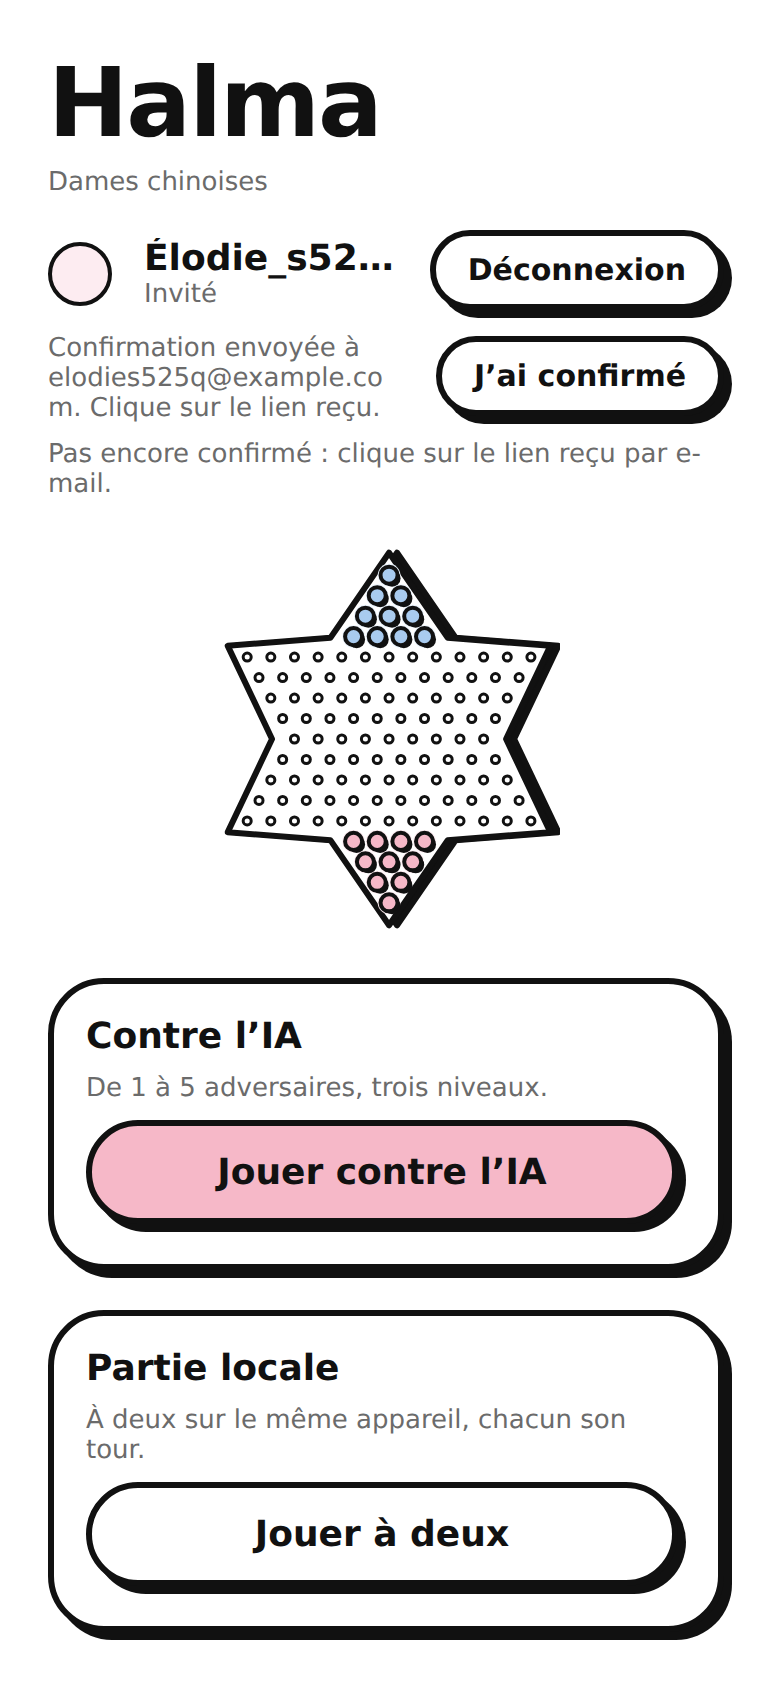
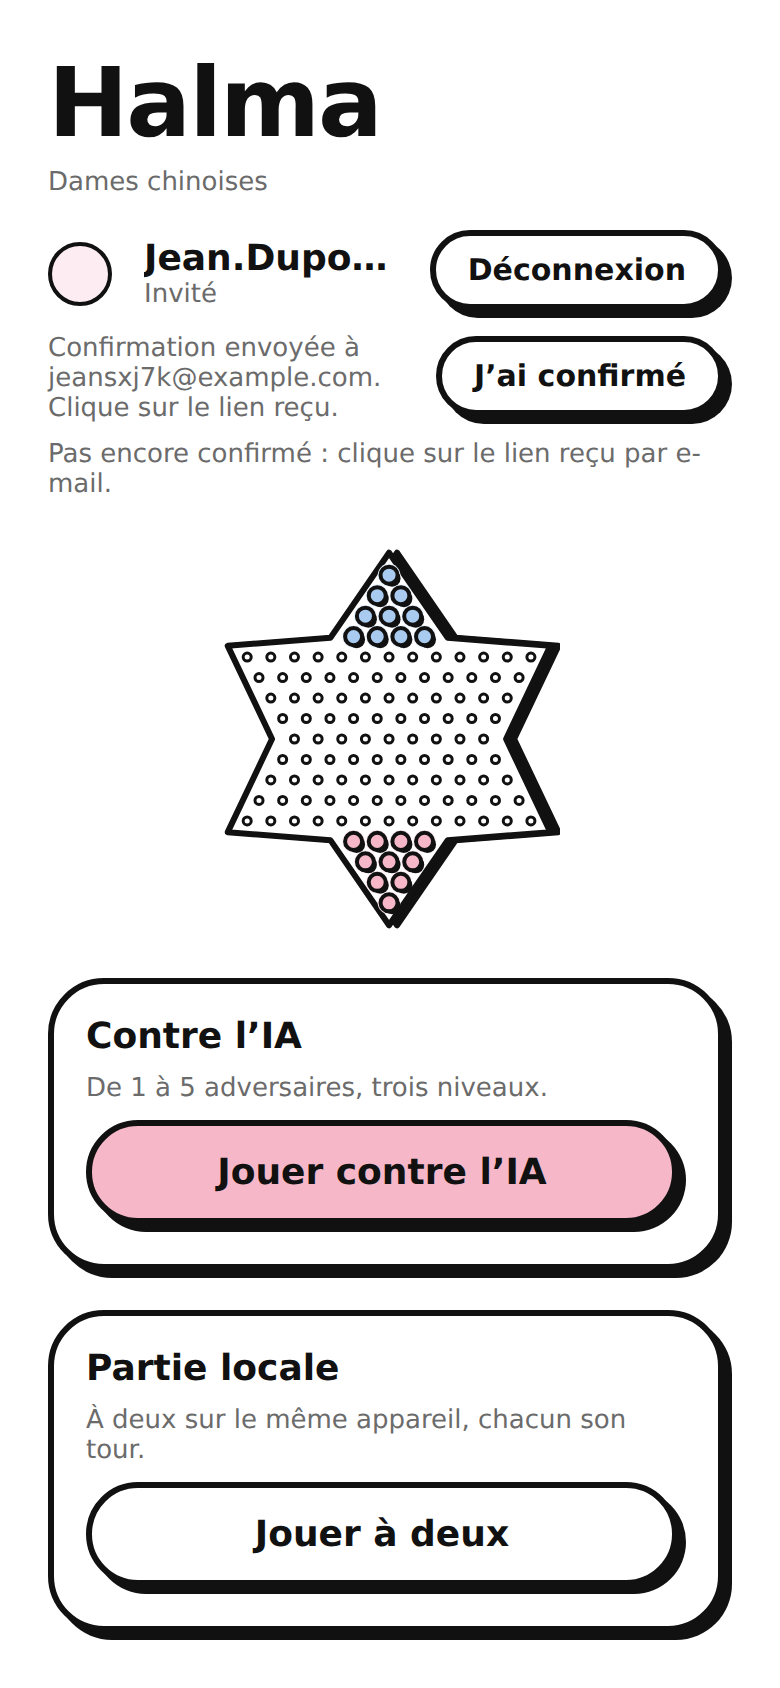
Pseudos: back to ASCII, allow dots
- Pseudos are 3-20 ASCII characters: letters without accents, digits,
  "_", "-" and "." (same rule in the app and in the database).
- Drop the ICU collation and NFC normalisation, no longer needed with an
  ASCII-only rule; lower() behaves the same under any locale.
- SQL checks: dots/underscores/hyphens accepted, accents, spaces, emoji
  and other punctuation refused, case still ignored; verified that
  removing "." from the pattern makes them fail.
- Forms clear a field's error as soon as it is edited.

Claude-Session: https://claude.ai/code/session_0191U8nMykJc5v9i35DUKtzB

Changed region(s): [[0.0615, 0.2156, 0.4923, 0.2464], [0.2769, 0.1232, 0.4923, 0.1848], [0.1846, 0.1232, 0.2462, 0.1848]]

diff --git a/src/auth/__tests__/auth-service.test.ts b/src/auth/__tests__/auth-service.test.ts
@@ -63,12 +63,6 @@ describe('signUpWithEmail', () => {
     });
   });
 
-  it('envoie le pseudo normalisé en NFC', async () => {
-    const { client, asSupabase } = fakeClient();
-    await signUpWithEmail(asSupabase, { ...fields, pseudo: 'Zoe\u0308' });
-    expect(client.rpc).toHaveBeenCalledWith('is_pseudo_available', { candidate: 'Zoë' });
-  });
-
   it('signale quand l’e-mail doit être confirmé (pas de session)', async () => {
     const { asSupabase } = fakeClient({ signUp: ok({ session: null, user: { id: 'u1' } }) });
     await expect(signUpWithEmail(asSupabase, fields)).resolves.toEqual({ needsEmailConfirmation: true });
@@ -114,21 +108,21 @@ describe('connexion, invité, déconnexion', () => {
 });
 
 describe('upgradeGuest', () => {
-  const fields = { pseudo: ' Élodie ', email: ' elodie@example.com ', password: 'motdepasse' };
+  const fields = { pseudo: ' Jean.Dupont ', email: ' jean@example.com ', password: 'motdepasse' };
 
   it('change le pseudo du profil, puis ajoute e-mail et mot de passe au même compte', async () => {
     const { client, query, asSupabase } = fakeClient();
     await expect(upgradeGuest(asSupabase, 'u1', fields)).resolves.toEqual({ needsEmailConfirmation: false });
     expect(client.from).toHaveBeenCalledWith('profiles');
-    expect(query.update).toHaveBeenCalledWith({ pseudo: 'Élodie' });
+    expect(query.update).toHaveBeenCalledWith({ pseudo: 'Jean.Dupont' });
     expect(query.eq).toHaveBeenCalledWith('id', 'u1');
-    expect(client.auth.updateUser).toHaveBeenCalledWith({ email: 'elodie@example.com', password: 'motdepasse' });
+    expect(client.auth.updateUser).toHaveBeenCalledWith({ email: 'jean@example.com', password: 'motdepasse' });
     expect(client.rpc).not.toHaveBeenCalled(); // l'index unique tranche, pas de vérification préalable
   });
 
   it('signale une confirmation d’e-mail en attente (compte encore invité)', async () => {
     const { asSupabase } = fakeClient({
-      updateUser: ok({ user: { id: 'u1', is_anonymous: true, email: '', new_email: 'elodie@example.com' } }),
+      updateUser: ok({ user: { id: 'u1', is_anonymous: true, email: '', new_email: 'jean@example.com' } }),
     });
     await expect(upgradeGuest(asSupabase, 'u1', fields)).resolves.toEqual({ needsEmailConfirmation: true });
   });

diff --git a/src/auth/validation.ts b/src/auth/validation.ts
@@ -1,11 +1,8 @@
 // Validation des formulaires d'inscription et de connexion (côté client).
 // Les mêmes règles de pseudo sont imposées par la base (voir la migration profiles).
 
-/**
- * Lettres de tous alphabets (accents compris), chiffres décimaux, « _ » et « - » :
- * mêmes classes que [[:alpha:]] et [[:digit:]] avec la collation ICU côté base.
- */
-export const PSEUDO_PATTERN = /^[\p{L}\p{Nd}_-]{3,20}$/u;
+/** Lettres sans accent, chiffres, « _ », « - » et « . » : même règle que la base. */
+export const PSEUDO_PATTERN = /^[A-Za-z0-9._-]{3,20}$/;
 export const PASSWORD_MIN_LENGTH = 8;
 /** Préfixe réservé aux pseudos générés pour les invités. */
 export const GUEST_PSEUDO_PREFIX = 'invite-';
@@ -28,21 +25,17 @@ export function validatePassword(password: string): FieldError {
   return null;
 }
 
-/**
- * Forme enregistrée d'un pseudo : sans espaces autour, normalisée en NFC (un « é »
- * tapé comme « e » + accent combinant devient le caractère « é »), comme en base.
- */
+/** Forme enregistrée d'un pseudo : sans espaces autour. */
 export function normalizePseudo(pseudo: string): string {
-  return pseudo.trim().normalize('NFC');
+  return pseudo.trim();
 }
 
 export function validatePseudo(pseudo: string): FieldError {
   const value = normalizePseudo(pseudo);
   if (!value) return 'Choisis un pseudo.';
-  const length = [...value].length; // en caractères, pas en unités UTF-16
-  if (length < 3 || length > 20) return 'Le pseudo doit faire entre 3 et 20 caractères.';
+  if (value.length < 3 || value.length > 20) return 'Le pseudo doit faire entre 3 et 20 caractères.';
   if (!PSEUDO_PATTERN.test(value)) {
-    return 'Lettres (accents compris), chiffres, « _ » et « - » seulement.';
+    return 'Lettres sans accent, chiffres, « _ », « - » et « . » seulement.';
   }
   if (value.toLowerCase().startsWith(GUEST_PSEUDO_PREFIX)) return 'Ce début de pseudo est réservé aux invités.';
   return null;

diff --git a/src/components/account-form.tsx b/src/components/account-form.tsx
@@ -24,6 +24,12 @@ export function AccountForm({ submitLabel, pendingLabel, pending, error, onSubmi
   const [password, setPassword] = useState('');
   const [errors, setErrors] = useState<Record<string, FieldError>>({});
 
+  // Corriger un champ efface son erreur ; les autres restent jusqu'au prochain envoi.
+  const edit = (field: keyof SignUpFields, set: (value: string) => void) => (value: string) => {
+    set(value);
+    setErrors((prev) => (prev[field] ? { ...prev, [field]: null } : prev));
+  };
+
   const submit = () => {
     if (pending) return;
     const fields = { pseudo, email, password };
@@ -37,18 +43,18 @@ export function AccountForm({ submitLabel, pendingLabel, pending, error, onSubmi
       <DrawnTextInput
         label="Pseudo"
         value={pseudo}
-        onChangeText={setPseudo}
+        onChangeText={edit('pseudo', setPseudo)}
         error={errors.pseudo}
-        hint="3 à 20 caractères : lettres (accents compris), chiffres, « _ » ou « - »."
+        hint="3 à 20 caractères : lettres sans accent, chiffres, « _ », « - » ou « . »."
         autoCapitalize="none"
         autoComplete="username-new"
         textContentType="username"
-        maxLength={40}
+        maxLength={20}
       />
       <DrawnTextInput
         label="E-mail"
         value={email}
-        onChangeText={setEmail}
+        onChangeText={edit('email', setEmail)}
         error={errors.email}
         autoCapitalize="none"
         autoComplete="email"
@@ -59,7 +65,7 @@ export function AccountForm({ submitLabel, pendingLabel, pending, error, onSubmi
       <DrawnTextInput
         label="Mot de passe"
         value={password}
-        onChangeText={setPassword}
+        onChangeText={edit('password', setPassword)}
         error={errors.password}
         hint={`Au moins ${PASSWORD_MIN_LENGTH} caractères.`}
         secureTextEntry

diff --git a/src/auth/__tests__/validation.test.ts b/src/auth/__tests__/validation.test.ts
@@ -2,7 +2,6 @@ import { describe, expect, it } from '@jest/globals';
 
 import {
   hasErrors,
-  normalizePseudo,
   validateEmail,
   validatePassword,
   validatePseudo,
@@ -25,27 +24,19 @@ describe('validation', () => {
     expect(validatePassword('12345678')).toBeNull();
   });
 
-  it.each(['Alice', 'bob_42', 'x-y-z', 'abc', 'a'.repeat(20), 'Élodie', 'Zoë', 'François-2', 'Łukasz', 'Ἀθηνᾶ', 'é'.repeat(20)])(
+  it.each(['Alice', 'bob_42', 'x-y-z', 'abc', 'a'.repeat(20), 'jean.dupont', 'J.D-2_b', ' Alice '])(
     'accepte le pseudo « %s »',
     (pseudo) => {
       expect(validatePseudo(pseudo)).toBeNull();
     },
   );
 
-  it.each(['', 'ab', 'a'.repeat(21), 'é'.repeat(21), 'avec espace', 'x.y', 'emoji😀', 'deux²', 'invite-abc', 'INVITE-x1'])(
+  it.each(['', 'ab', 'a'.repeat(21), 'avec espace', 'Élodie', 'Zoë', 'point!', 'a,b', 'emoji😀', 'invite-abc', 'INVITE-x1'])(
     'refuse le pseudo « %s »',
     (pseudo) => {
       expect(validatePseudo(pseudo)).not.toBeNull();
     },
   );
-
-  it('normalise en NFC et compte les caractères, pas les unités UTF-16', () => {
-    const decomposed = 'Zoe\u0308'; // « e » + tréma combinant
-    expect(normalizePseudo(` ${decomposed} `)).toBe('Zoë');
-    expect(validatePseudo(decomposed)).toBeNull();
-    // 20 « é » décomposés = 40 unités, mais 20 caractères une fois normalisés.
-    expect(validatePseudo('e\u0301'.repeat(20))).toBeNull();
-  });
 
   it('valide tout un formulaire', () => {
     expect(hasErrors(validateSignUp({ pseudo: 'Alice', email: 'a@b.fr', password: '12345678' }))).toBe(false);

diff --git a/src/app/sign-in.tsx b/src/app/sign-in.tsx
@@ -20,6 +20,12 @@ export default function SignInScreen() {
   const [errors, setErrors] = useState<Record<string, FieldError>>({});
   const { pending, error, run } = useAuthAction();
 
+  // Corriger un champ efface son erreur.
+  const edit = (field: 'email' | 'password', set: (value: string) => void) => (value: string) => {
+    set(value);
+    setErrors((prev) => (prev[field] ? { ...prev, [field]: null } : prev));
+  };
+
   const submit = async () => {
     const fieldErrors = validateSignIn({ email, password });
     setErrors(fieldErrors);
@@ -47,7 +53,7 @@ export default function SignInScreen() {
             <DrawnTextInput
               label="E-mail"
               value={email}
-              onChangeText={setEmail}
+              onChangeText={edit('email', setEmail)}
               error={errors.email}
               autoCapitalize="none"
               autoComplete="email"
@@ -58,7 +64,7 @@ export default function SignInScreen() {
             <DrawnTextInput
               label="Mot de passe"
               value={password}
-              onChangeText={setPassword}
+              onChangeText={edit('password', setPassword)}
               error={errors.password}
               secureTextEntry
               autoComplete="current-password"

diff --git a/README.md b/README.md
@@ -57,10 +57,9 @@ Pour une compilation EAS, définir les mêmes variables dans l'environnement EAS
   « Se connecter ».
 - Table `profiles` (`id`, `pseudo`, `avatar`, `created_at`), remplie automatiquement à l'inscription par un
   trigger : le pseudo vient du formulaire, ou `invite-xxxxxx` pour un invité.
-- Pseudos : 3 à 20 caractères, lettres (accents compris, tous alphabets), chiffres, « _ » et « - ».
-  Uniques sans tenir compte de la casse, accents compris (`Élodie` et `éLODIE` sont le même pseudo, `Elodie`
-  en est un autre). Ils sont enregistrés normalisés en Unicode NFC, et la base compare avec la collation
-  ICU `und-x-icu` : avec la collation `C`, `lower('É')` resterait `É`.
+- Pseudos : 3 à 20 caractères parmi les lettres sans accent, les chiffres, « _ », « - » et « . »
+  (par exemple `Jean.Dupont-2`). Uniques sans tenir compte de la casse : `Jean.Dupont` et `jean.dupont`
+  sont le même pseudo. La même règle est vérifiée par l'application et imposée par la base.
 - Row Level Security : les joueurs connectés (invités compris) lisent les profils ; chacun ne modifie que
   son pseudo et son avatar ; personne ne crée ni ne supprime de profil directement (la suppression suit
   celle du compte). La fonction `is_pseudo_available` permet de tester un pseudo avant l'inscription.
@@ -85,8 +84,8 @@ Le lien de confirmation renvoie vers la *Site URL* du projet.
 ### Vérifier les migrations sans Supabase
 
 `scripts/check-db.sh` applique les migrations sur un Postgres local (avec une imitation minimale du
-schéma `auth` de Supabase) et vérifie le trigger, l'unicité des pseudos (accents et casse compris), la
-normalisation NFC et la RLS. La base temporaire utilise la locale `C`, le cas le plus défavorable :
+schéma `auth` de Supabase) et vérifie le trigger, le format et l'unicité des pseudos et la RLS. La base
+temporaire utilise la locale `C`, la plus stricte :
 
 ```bash
 DATABASE_URL=postgres://postgres@localhost:5432/postgres scripts/check-db.sh
